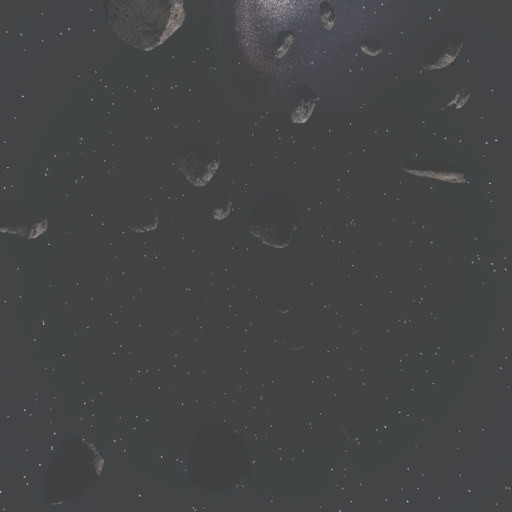
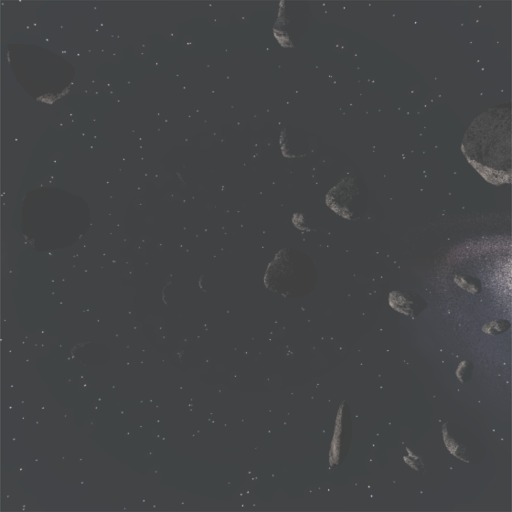
修改光源

diff --git a/Source/Main.cpp b/Source/Main.cpp
@@ -121,6 +121,7 @@ int main(int argc, char **argv)
 	}
 
 	glEnable(GL_DEPTH_TEST);
+	glEnable(GL_DEPTH_CLAMP);
 
 	glDepthFunc(GL_LEQUAL);
 	glEnable(GL_TEXTURE_2D);
